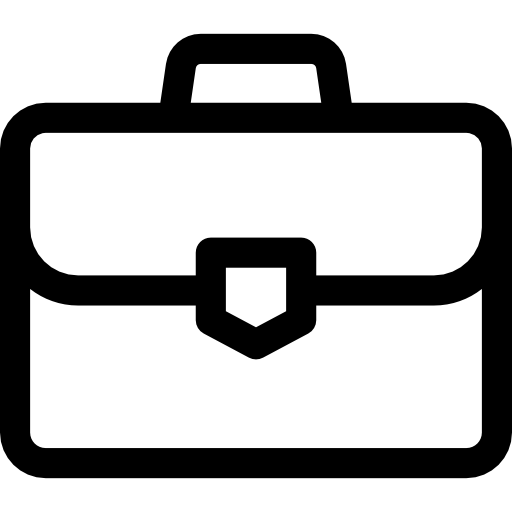
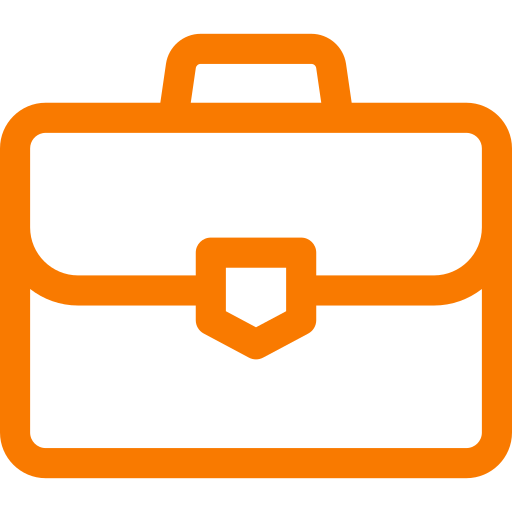
orange fixes

Changed region(s): [[0.0, 0.0625, 1.0, 0.9375]]

diff --git a/style.css b/style.css
@@ -6,8 +6,6 @@
 body {
 	font-family: Arial, sans-serif;
 	line-height: 1.6;
-	background: #111;
-	color: #eee;
 }
 a {
 	text-decoration: none;
@@ -22,8 +20,6 @@ a {
 
 /* HEADER */
 .header {
-	background: #000;
-	color: #fff;
 	padding: 1rem 0;
 }
 .nav {
@@ -34,6 +30,7 @@ a {
 .logo {
 	font-weight: bold;
 	font-size: 1.2rem;
+	color: #f97a00;
 }
 
 nav ul {
@@ -41,12 +38,14 @@ nav ul {
 	display: flex;
 	gap: 1.5rem;
 }
-nav ul li a {
-	color: #fff;
+
+ul li a {
+	color: #f97a00;
 }
+
 .btn {
-	background: #c8a44c;
-	color: #000;
+	background: #f97a00;
+	color: white;
 	padding: 0.5rem 1rem;
 	border-radius: 5px;
 	display: inline-block;
@@ -62,7 +61,7 @@ nav ul li a {
 .hamburger span {
 	width: 25px;
 	height: 3px;
-	background: #fff;
+	background: #000;
 }
 
 @media (max-width: 768px) {
@@ -85,21 +84,23 @@ nav ul li a {
 }
 
 #bir {
-	background: url("https://optim.tildacdn.one/tild3839-3836-4863-b835-373039393761/-/format/webp/Group_1000003722-min.png.webp")
+	background: url("https://res.cloudinary.com/aenetworks/image/upload/c_fill,ar_2,w_3840,h_1920,g_auto/dpr_auto/f_auto/q_auto:eco/v1/topic-london-gettyimages-760251843-feature?_a=BAVAZGDX0")
 		no-repeat;
 	background-size: cover;
 }
 
 .hero {
 	display: flex;
-	align-items: center;
-	justify-content: space-between;
-	padding: 2rem 0;
-	gap: 2rem;
+
+	justify-content: right;
+	height: 700px;
 }
+
 .hero-text {
-	flex: 1;
+	max-width: 600px;
+	color: #ffffff;
 }
+
 .hero-text h1 {
 	font-size: 40px;
 	text-transform: uppercase;
@@ -126,7 +127,6 @@ section {
 }
 h2 {
 	text-align: center;
-
 }
 
 .about-grid,
@@ -152,7 +152,8 @@ h2 {
 	grid-template-columns: repeat(auto-fit, minmax(250px, 1fr));
 }
 .program-card {
-	background: #222;
+	box-shadow: 10px 10px 30px #F97A00;
+
 	border-radius: 10px;
 	overflow: hidden;
 	text-align: center;
@@ -172,7 +173,7 @@ h2 {
 .partner-grid img {
 	border-radius: 10px;
 	width: 100%;
-	height: auto;
+	height: 100%;
 }
 
 .cert-grid {
@@ -187,24 +188,46 @@ h2 {
 .test-grid {
 	grid-template-columns: repeat(auto-fit, minmax(250px, 1fr));
 }
+
+.testimonials h2 {
+	color: #f97a00;
+}
+
+
+.certificates h2 {
+	color: #f97a00;
+}
+
+.programs h2 {
+	color: #f97a00;
+}
+
+.countries h2 {
+	color: #f97a00;
+}
+
 blockquote {
-	background: #222;
+	border: 1px solid #F97A00;
+
 	padding: 1rem;
-	border-left: 5px solid #c8a44c;
+	border-left: 5px solid #F97A00;
+
 	border-radius: 5px;
+	color: #f97a00;
 }
 
 .footer {
-	background: #000;
-	color: #aaa;
+	background: #F97A00;
+	color: white;
 	text-align: center;
 	padding: 2rem 0;
 	margin-top: 3rem;
+	font-size: 20px;
 }
 
 .btn2 {
-	background: #c8a44c;
-	color: #000;
+	background: #f97a00;
+	color: white;
 
 	height: 50px;
 	width: 200px;
@@ -216,15 +239,17 @@ blockquote {
 
 .about-title {
 	font-size: 30px;
+	color: #F97A00;
 }
 
 .title1 {
 	text-align: center;
-font-weight: 700;
+	font-weight: 700;
 	margin: 0 auto;
 	font-size: 25px;
 	margin-bottom: 40px;
 	margin-top: 40px;
+	color: #F97A00;
 }
 
 .title2 {
@@ -234,24 +259,22 @@ font-weight: 700;
 	font-size: 25px;
 	margin-top: 40px;
 	margin-bottom: 40px;
+	color: #F97A00;
 }
 
 .about-grid .card {
-	background-color: #c8a44c;
-	color: black;
+	background-color: white;
+	color: #F97A00;
+	box-shadow: 10px 10px 30px #F97A00;
 }
-
-
 
 .about-grid .card img {
 	max-width: 100%;
 }
 
-
 .about-grid .card h2 {
 	font-size: 20px;
 }
-
 
 .links img {
 	width: 60px;

diff --git a/index.html b/index.html
@@ -10,7 +10,7 @@
 		<!-- HEADER -->
 		<header class="header">
 			<div class="container nav">
-				<div class="logo">UCAN Consulting</div>
+				<div class="logo">Accel Consulting</div>
 				<nav>
 					<div class="hamburger" id="hamburger">
 						<span></span><span></span><span></span>
@@ -36,14 +36,7 @@
 						<a href="">Royhatdan otish</a>
 					</button>
 				</div>
-				<div class="hero-img">
-					<img
 
-						src="https://optim.tildacdn.one/tild3666-6430-4831-b137-656636386661/-/format/webp/man_2_2-2.png.webp"
-						alt="Student"
-						loading="lazy"
-					/>
-				</div>
 			</div>
 		</section>
 
@@ -188,7 +181,9 @@
 		<footer id="contact" class="footer">
 			<div class="container">
 				<p>Islom Larimov kochasi 4b. Namangan shahar.</p>
-				<p>Email: info@ucanconsulting.com | Tel: <a href="tel:+998 90 154 00 33"> +998 90 154 00 33</a></p>
+				<p>Email: info@ucanconsulting.com </p>
+
+				<p> Tel: <a href="tel:+998 90 154 00 33"> +998 90 154 00 33</a></p>
 			</div>
 		</footer>
 
